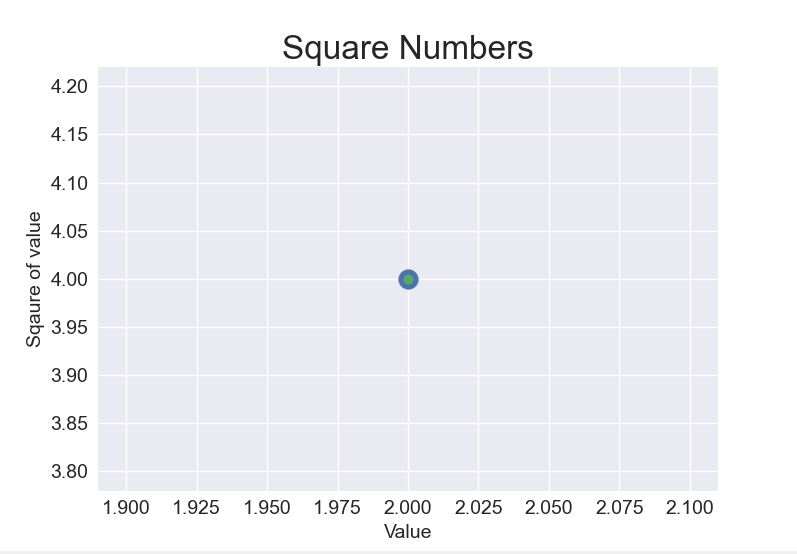
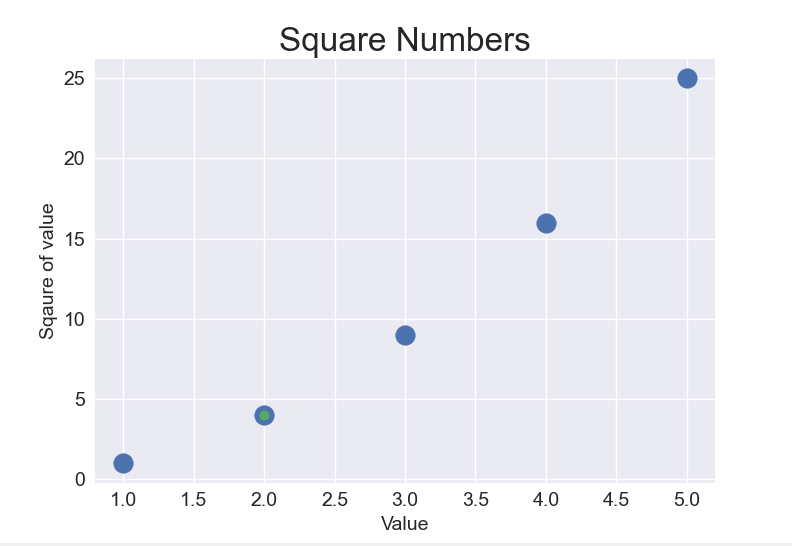
updates

diff --git a/_posts/2021-09-07-personal-python-basics_3-Matplotlib.md b/_posts/2021-09-07-personal-python-basics_3-Matplotlib.md
@@ -74,7 +74,7 @@ Using ".scatter" a scatter plot can be created.
 |![scatter plot  actual](/assets/images/LP-python-basics3-Data/scatter_plot_actual.png)|
 |<em>Scatter plot actual(only one point for now)</em>|
 
-Similar to the line graph, scatter plots can be customised to improve readability.
+Similar to the line graph, scatter plots can be customised to improve readability. More points were also added at this point
 
 |![custom scatter plot code](/assets/images/LP-python-basics3-Data/custom_scatter_plot_code.png)|
 |<em>Code for customised scatter plot</em>|
